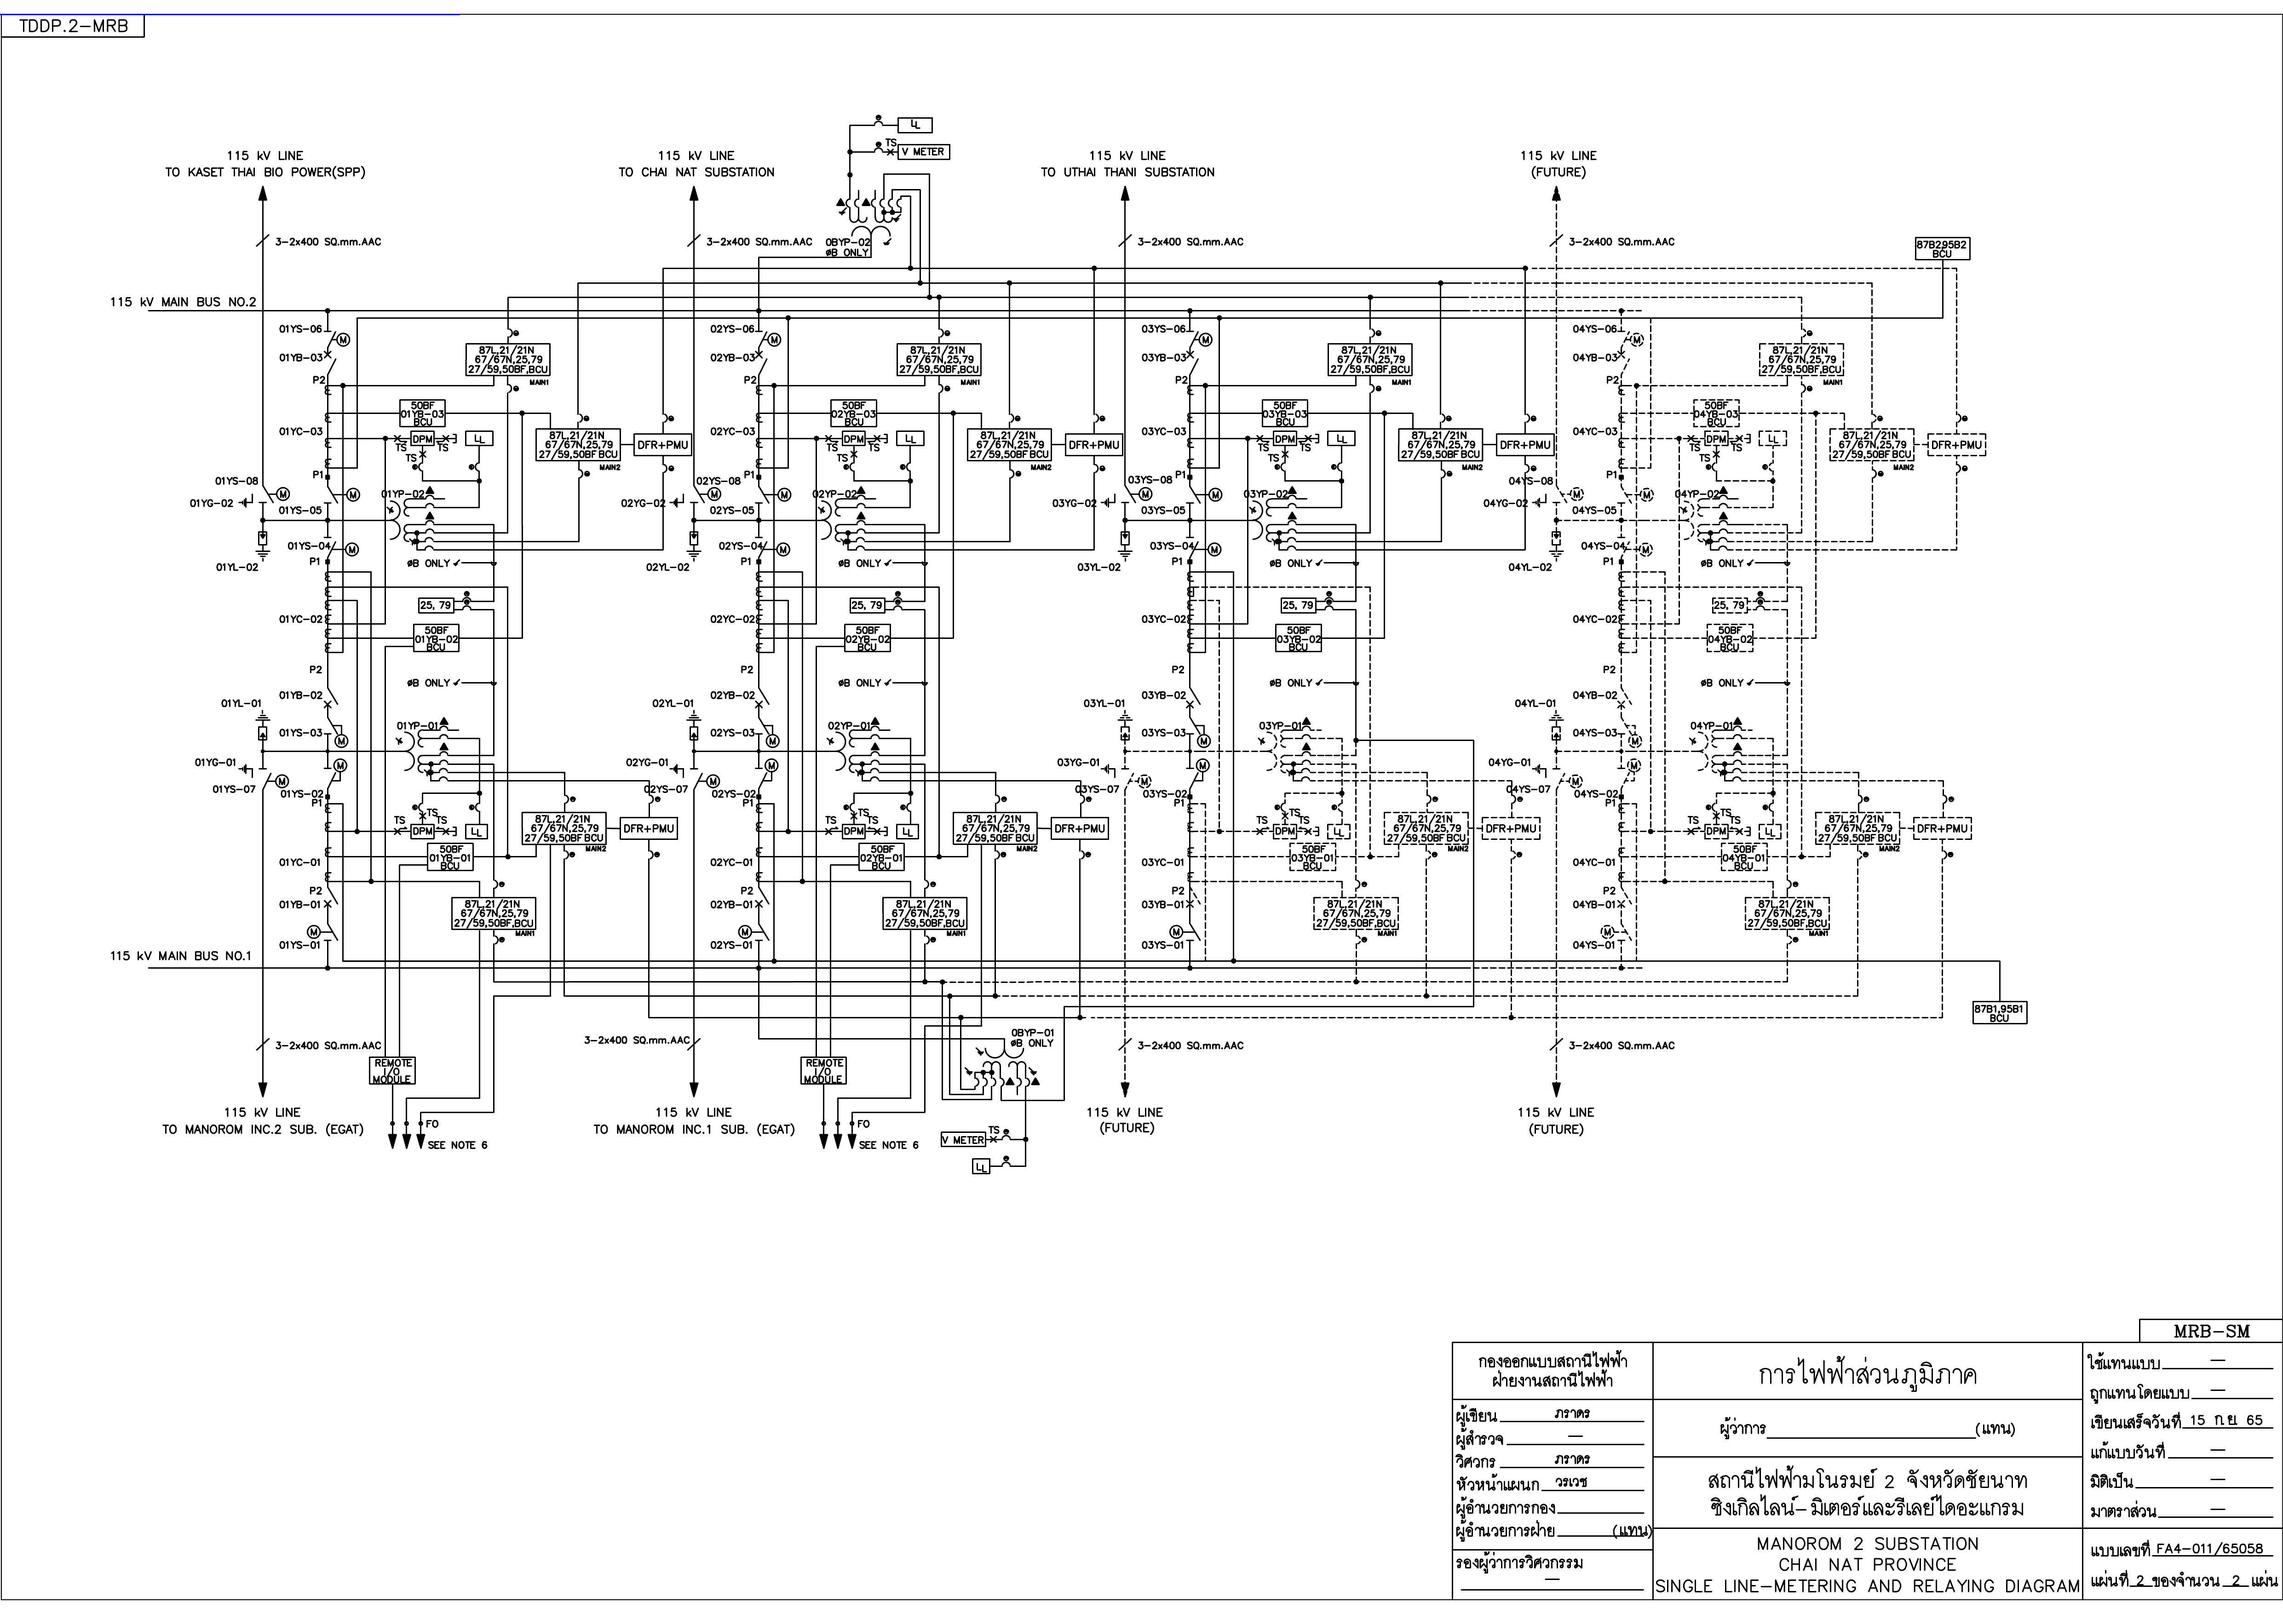
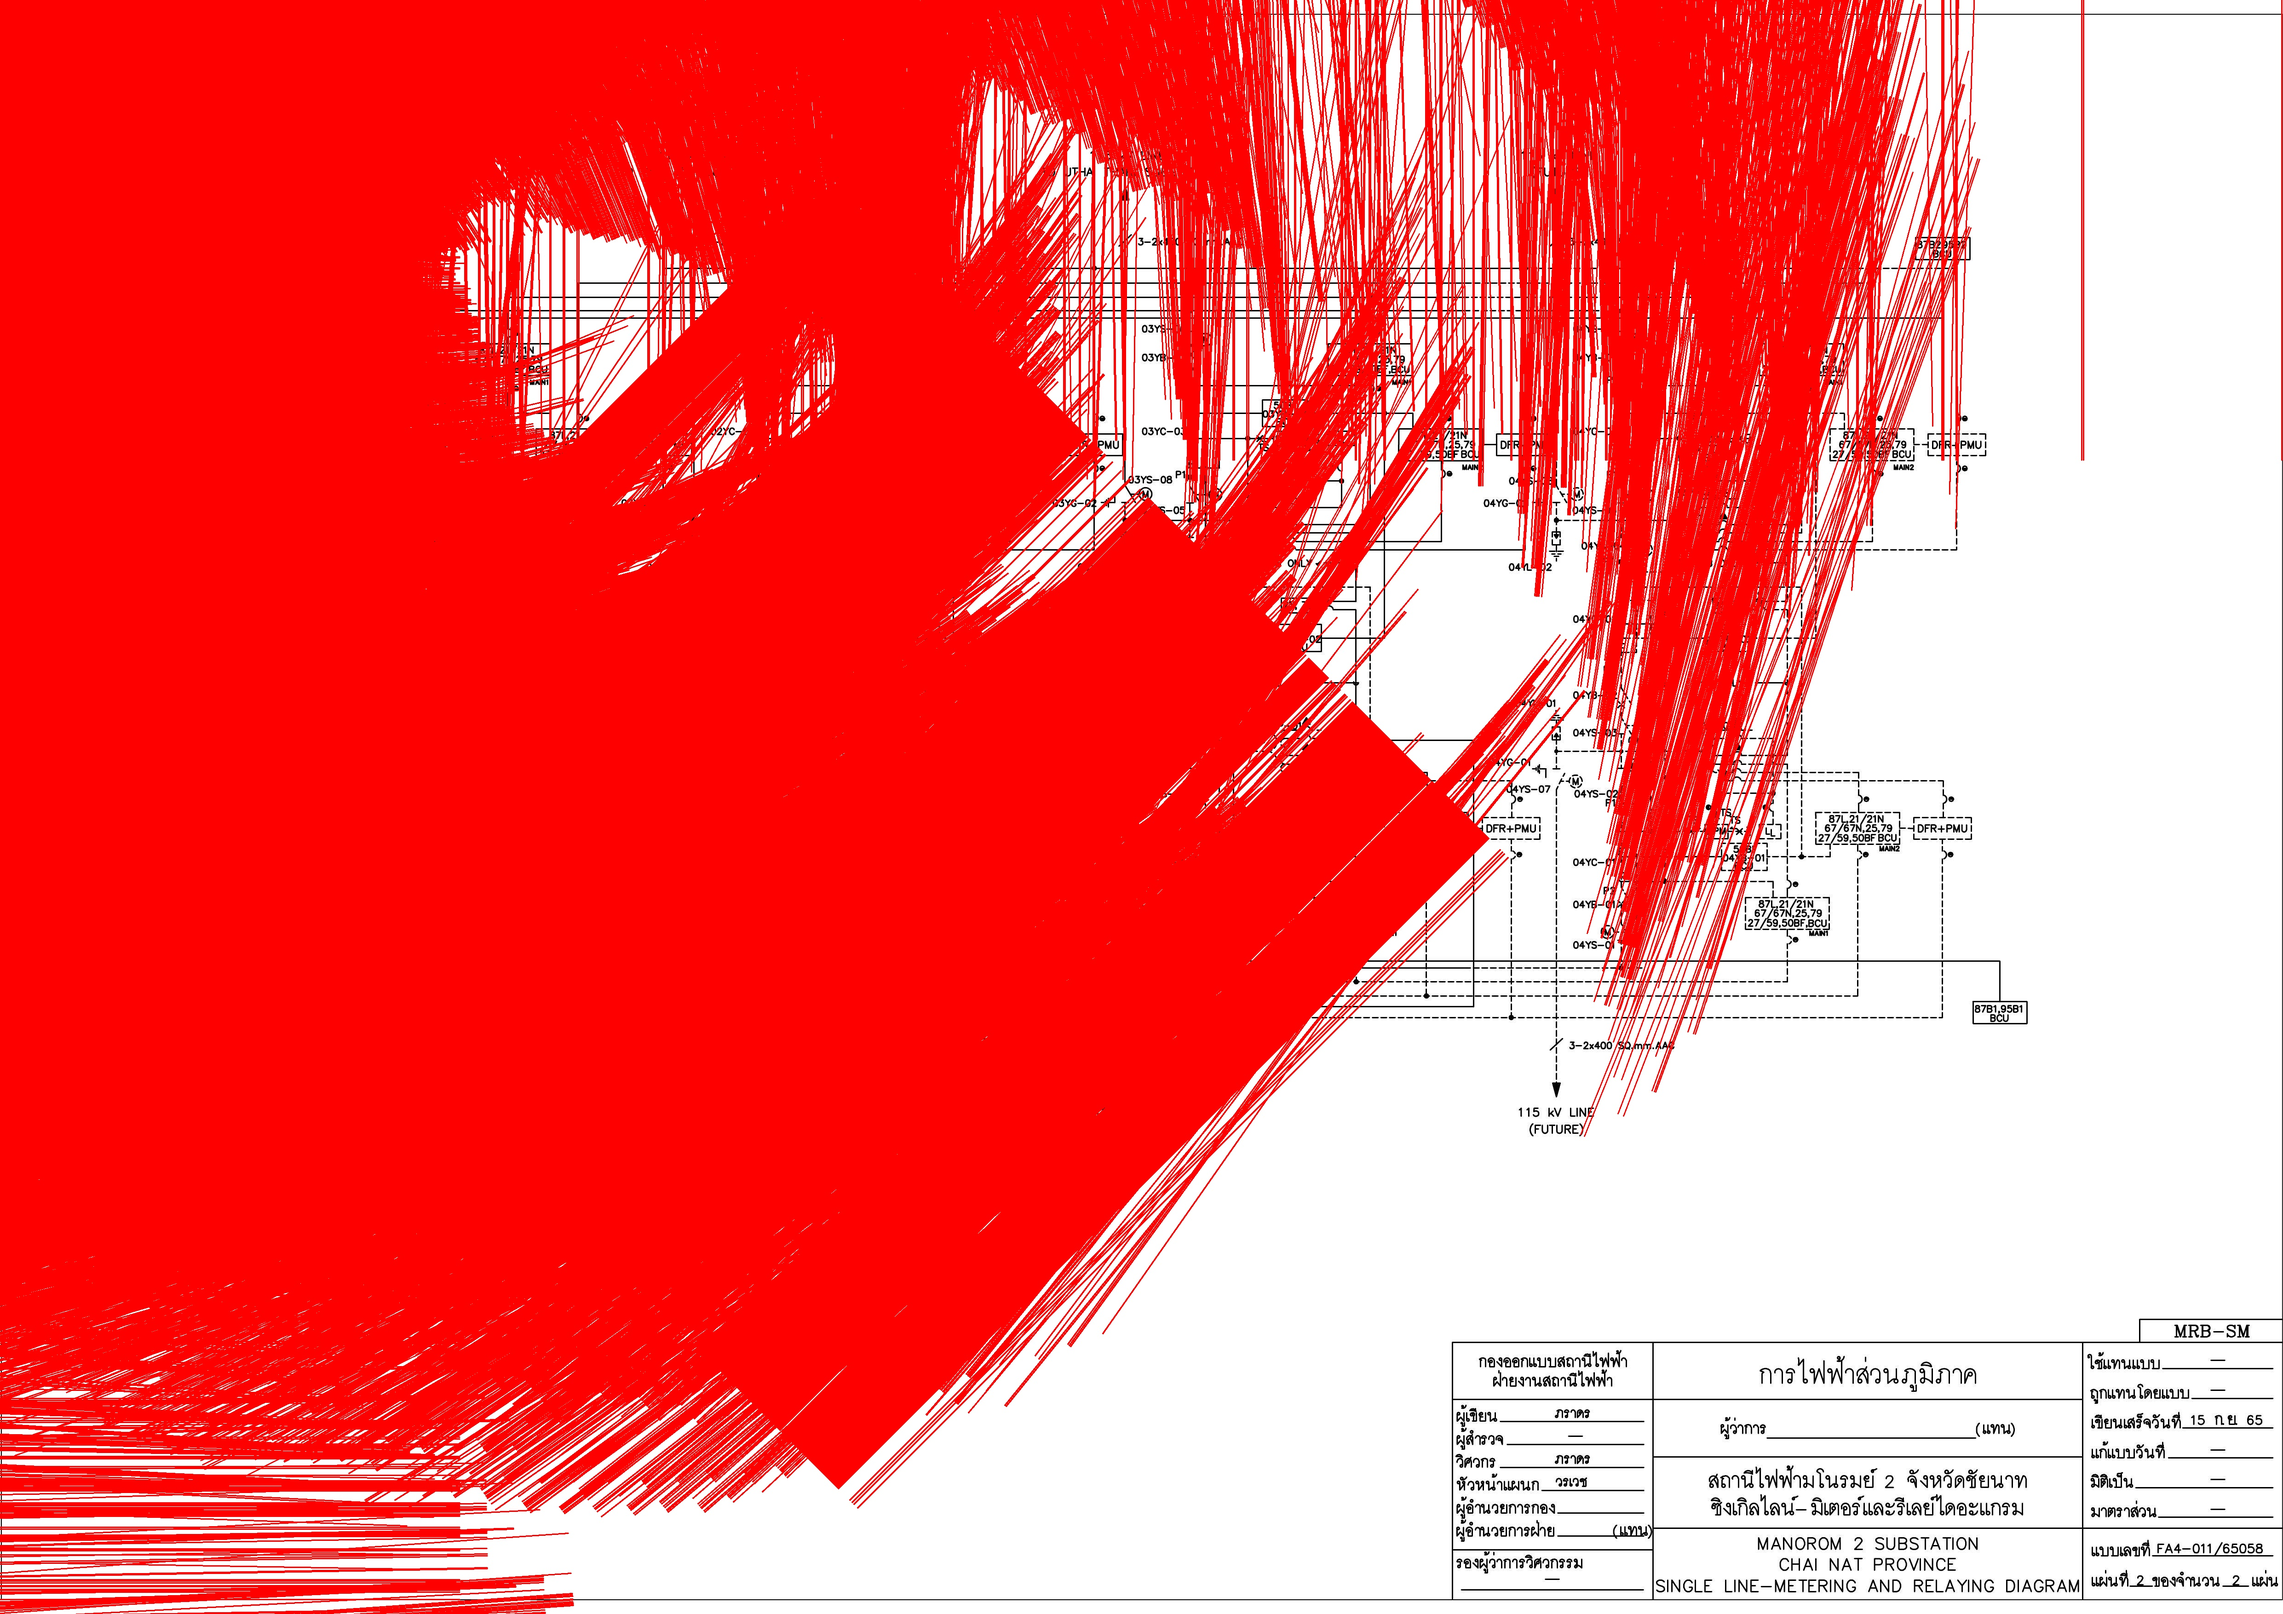
check point (2)

diff --git a/x_hough.py b/x_hough.py
@@ -4,33 +4,33 @@ import numpy as np
 # Load image
 image = cv2.imread("./images/mrb-Manorom2-sm-bh.jpg")
 
-# Convert the image to gray scale
+# Convert image to grayscale
 gray = cv2.cvtColor(image, cv2.COLOR_BGR2GRAY)
 
-# Perform edge detection
-edges = cv2.Canny(gray, 50, 200, apertureSize=3)
+# Use canny edge detection
+edges = cv2.Canny(gray, 50, 150, apertureSize=3)
 
-# Perform a Hough Line Transform
-lines = cv2.HoughLines(edges, 1, np.pi / 180, 300)
+# Apply HoughLinesP method to
+# to directly obtain line end points
+lines_list = []
+lines = cv2.HoughLinesP(
+    edges,  # Input edge image
+    1,  # Distance resolution in pixels
+    np.pi / 180,  # Angle resolution in radians
+    threshold=100,  # Min number of votes for valid line
+    minLineLength=5,  # Min allowed length of line
+    maxLineGap=10,  # Max allowed gap between line for joining them
+)
 
-# Iterate over the output lines and draw them on the image
-for rho, theta in lines[0]:
-    a = np.cos(theta)
-    b = np.sin(theta)
-    x0 = a * rho
-    y0 = b * rho
-    x1 = int(x0 + 1000 * (-b))
-    y1 = int(y0 + 1000 * (a))
-    x2 = int(x0 - 1000 * (-b))
-    y2 = int(y0 - 1000 * (a))
+# Iterate over points
+for points in lines:
+    # Extracted points nested in the list
+    x1, y1, x2, y2 = points[0]
+    # Draw the lines joing the points
+    # On the original image
+    cv2.line(image, (x1, y1), (x2, y2), (0, 255, 0), 2)
+    # Maintain a simples lookup list for points
+    lines_list.append([(x1, y1), (x2, y2)])
 
-    cv2.line(image, (x1, y1), (x2, y2), (255, 0, 0), 2)
-
-# Show result
-cv2.imshow("Result Image", image)
-
-# Save result
-cv2.imwrite("./images/mrb-Manorom2-sm-bh-hough.jpg", image)
-
-# Wait for key
-cv2.waitKey(0)
+# Save the result image
+cv2.imwrite("detectedLines.png", image)
